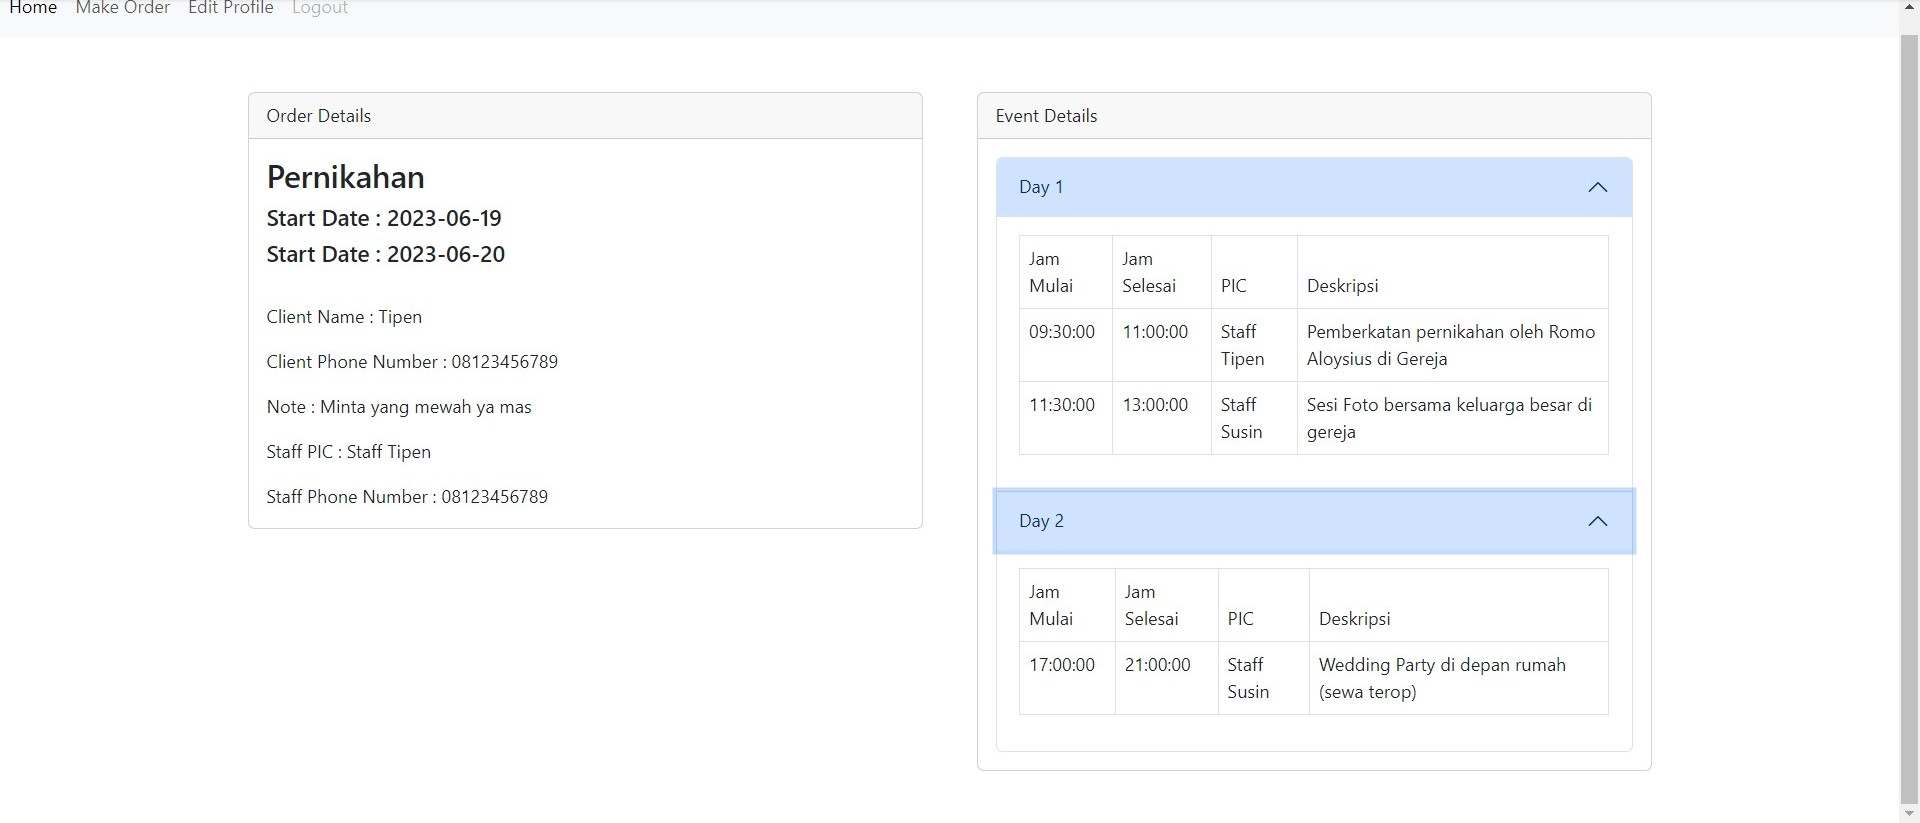
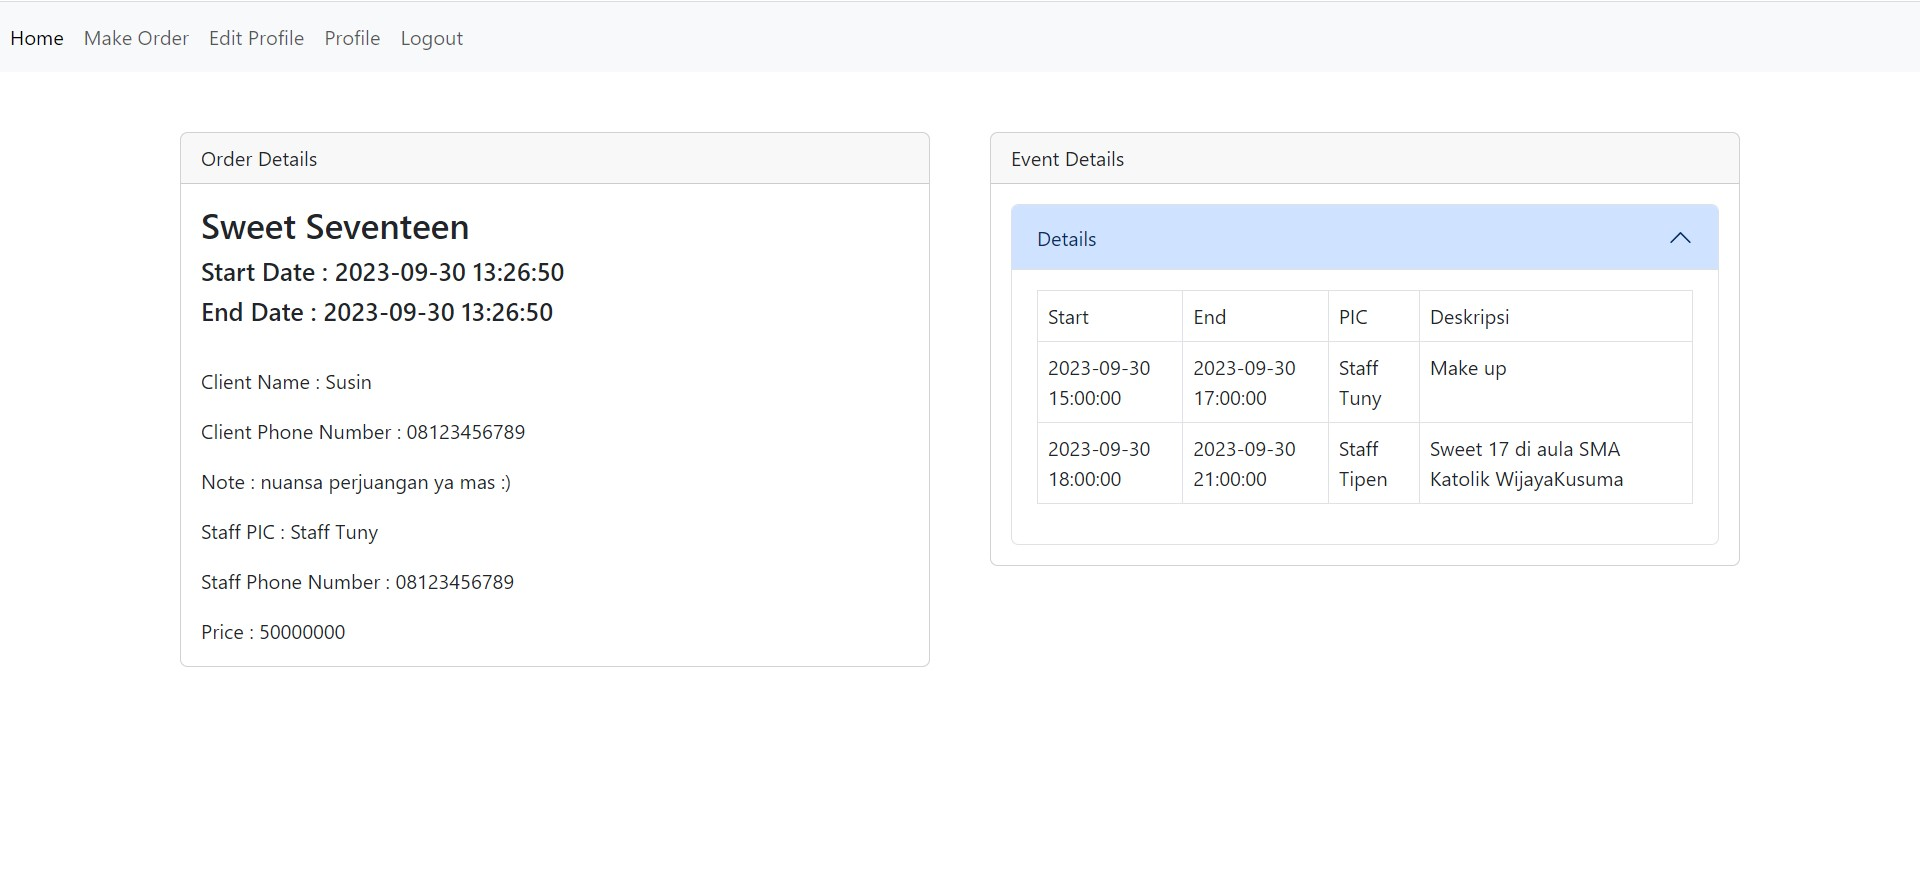
doneeee

diff --git a/ui_event_organizer/resources/views/staff/details.blade.php b/ui_event_organizer/resources/views/staff/details.blade.php
@@ -8,15 +8,17 @@
                 <div class="card-header">Order Details</div>
                 <div class="card-body">
                     <div class="list-group">
-                        <h3 class="card-title">Lamaran</h3>
-                        <h5 class="card-text">Start Date : 2023-10-10</h5>
-                        <h5 class="card-text">Start Date : 2023-10-10</h5>
+                        <h3 class="card-title"><span id="package_name">package name</span></h3>
+                        <h5 class="card-text">Start Date : <span id="start_date">start date</span> </h5>
+                        <h5 class="card-text">End Date : <span id="end_date">end date</span></h5>
                         <br>
-                        <p class="card-text">Client Name : Tuny</p>
-                        <p class="card-text">Client Phone Number : 08123456789</p>
-                        <p class="card-text">Note : Mau lamaran yang Chinese banget, keluarga saya totok soalnya (✿◡‿◡)</p>
-                        <p class="card-text">Staff PIC : <button type="button" class="btn btn-success">Take Request</button></p>
-                        <p class="card-text">Staff Phone Number : -</p>
+                        <p class="card-text">Client Name : <span id="client_name">Client Name</span></p>
+                        <p class="card-text">Client Phone Number : <span id="client_phone_num">client phone num</span></p>
+                        <p class="card-text">Note : <span id="note">Notes</span></p>
+                        <p class="card-text">Staff PIC : <span id="staff_name">Nama stafff</span></p>
+                        <p class="card-text">Staff Phone Number : <span id="staff_phone_num">Staff phone num</span></p>
+                        <p class="card-text">Price : <span id="package_price">Price</span></p>
+                        <button type="button" class="btn btn-success" id = "btnTake" >Take Request</button>
                     </div>
                 </div>
             </div>
@@ -38,10 +40,10 @@
                                 <table class="table table-bordered mt-3">
                                     <thead>
                                         <tr>
-                                            <td>Tanggal</td>
+                                            <!-- <td>Tanggal</td> -->
                                             <!-- <td>Tanggal Selesai<td> -->
-                                            <td>Jam Mulai</td>
-                                            <td>Jam Selesai</td>
+                                            <td>Start</td>
+                                            <td>End</td>
                                             <td>PIC</td>
                                             <td>Deskripsi</td>
                                         </tr>
@@ -80,9 +82,9 @@
             <label for="pic" class="form-label">Staff PIC</label>
             <select id = "pic" class="form-select" aria-label="Default select example" required>
                 <option selected disabled>Pilih PIC</option>
-                <option value="1">Tipen</option>
+                <!-- <option value="1">Tipen</option>
                 <option value="2">Susin</option>
-                <option value="3">Tuny</option>
+                <option value="3">Tuny</option> -->
             </select>
         </div>
         <div class="mb-3">
@@ -92,7 +94,7 @@
     </div>
     <div class="modal-footer">
         <button type="button" class="btn btn-secondary" data-bs-dismiss="modal">Close</button>
-        <button type="button" class="btn btn-primary">Save changes</button>
+        <button type="button" class="btn btn-primary" id="save">Save changes</button>
     </div>
     </div>
 </div>
@@ -104,4 +106,144 @@
         width: 600px;
     }
 </style>
+<script>
+    $(document).ready(function(){
+        var url = $(location).attr('href'),
+        parts = url.split("/"),
+        order_id = parts[parts.length-1];
+        datas = {
+            url : ":5501/staff"
+        }
+        $.ajax({
+            method : "GET",
+            data : datas,
+            url : "http://127.0.0.1:8000/api/",
+            success : function(response) {
+                len = response['data'].length
+                console.log(len);
+                for ($i = 0; $i<len;$i++) {
+                    $("#pic").append("<option value='"+response['data'][$i]['staff_id']+"'>"+response['data'][$i]['name']+"</option>")
+                }
+                console.log(response)
+            },
+            error : function(response) {
+                console.log(response)
+            }
+        })
+        $("#save").click(function(){
+            start = $("#start").val()
+            end = $("#end").val()
+            pic = $("#pic").val()
+            desc = $("#description").val()
+            datas = {
+                start : start,
+                end : end,
+                description : desc,
+                order_id : order_id,
+                staff_id : pic,
+                url : ":5504/event"
+            }
+            if(start != "" && end != "" && pic != "" && desc != "") {
+                $.ajax({
+                    method : "POST",
+                    data : datas,
+                    url : "http://127.0.0.1:8000/api/",
+                    success : function(response) {
+                        alert(response['message']);
+                        window.location.href = "";
+                    },
+                    error : function(response) {
+                        console.log(response)
+                    }
+                })
+            } else {
+                alert("tolong semua file untuk diisi")
+            }
+        })
+        var temp = window.location.pathname.split("/");
+        var order_id = temp[temp.length - 1];
+        $("#btnTake").click(function(){
+            datas = {
+                staff_id : {{session()->get('staff_id')}},
+                url: ':5503/order/'+order_id
+            }
+            $.ajax({
+                method : "PUT",
+                data : datas,
+                url : "http://127.0.0.1:8000/api/",
+                success : function(response) {
+                    alert(response['message']);
+                    window.location.href = "";
+                },
+                error : function(response) {
+                    console.log(response)
+                }
+            })
+        })
+        $.ajax({
+            method : "GET",
+            data : {
+                url : ":5503/order/"+order_id
+            },
+            url : "http://127.0.0.1:8000/api/",
+            success : function(response) {
+                order = response['data'][0]
+
+                data = [
+                    "package_name",
+                    "start_date",
+                    "end_date",
+                    "client_name",
+                    "client_phone_num",
+                    "note",
+                    "staff_name",
+                    "staff_phone_num",
+                    "package_price",
+                ]
+
+                console.log(order);
+                for (i in data) {
+                    console.log(data[i]);
+                    console.log(order[data[i]]);
+                    $("#"+data[i]).text(order[data[i]]);
+                }
+                console.log(response['data']);
+            },
+            error : function(response) {
+                console.log(response)
+            }
+        })
+
+        $.ajax({
+            method : "GET",
+            data : {
+                url : ":5504/event/"+order_id
+            },
+            url : "http://127.0.0.1:8000/api/",
+            success : function(response) {
+                events = response['data']
+
+                console.log(events);
+                for (i in events) {
+                    event = events[i];
+
+                    $("#table_body").append(
+                        `
+                        <tr>
+                            <td>`+ event['start'] +`</td>
+                            <td>`+ event['end'] +`</td>
+                            <td>`+ event['name'] +`</td>
+                            <td>`+ event['description'] +`</td>
+                        </tr>
+                        `
+                    );
+                }
+                console.log(response['data']);
+            },
+            error : function(response) {
+                console.log(response)
+            }
+        })
+    })
+</script>
 @endsection

diff --git a/ui_event_organizer/resources/views/details.blade.php b/ui_event_organizer/resources/views/details.blade.php
@@ -10,13 +10,14 @@
                     <div class="list-group">
                         <h3 class="card-title"><span id="package_name">package name</span></h3>
                         <h5 class="card-text">Start Date : <span id="start_date">start date</span> </h5>
-                        <h5 class="card-text">Start Date : <span id="end_date">end date</span></h5>
+                        <h5 class="card-text">End Date : <span id="end_date">end date</span></h5>
                         <br>
                         <p class="card-text">Client Name : <span id="client_name">Client Name</span></p>
                         <p class="card-text">Client Phone Number : <span id="client_phone_num">client phone num</span></p>
                         <p class="card-text">Note : <span id="note">Notes</span></p>
                         <p class="card-text">Staff PIC : <span id="staff_name">Nama stafff</span></p>
                         <p class="card-text">Staff Phone Number : <span id="staff_phone_num">Staff phone num</span></p>
+                        <p class="card-text">Price : <span id="package_price">Price</span></p>
                     </div>
                 </div>
             </div>
@@ -37,10 +38,10 @@
                                 <table class="table table-bordered">
                                     <thead>
                                         <tr>
-                                            <td>Tanggal Mulai</td>
-                                            <td>Tanggal Selesai<td>
-                                            <td>Jam Mulai</td>
-                                            <td>Jam Selesai</td>
+                                            <!-- <td>Tanggal Mulai</td>
+                                            <td>Tanggal Selesai<td> -->
+                                            <td>Start</td>
+                                            <td>End</td>
                                             <td>PIC</td>
                                             <td>Deskripsi</td>
                                         </tr>
@@ -88,6 +89,7 @@
                     "note",
                     "staff_name",
                     "staff_phone_num",
+                    "package_price",
                 ]
 
                 console.log(order);
@@ -95,6 +97,37 @@
                     console.log(data[i]);
                     console.log(order[data[i]]);
                     $("#"+data[i]).text(order[data[i]]);
+                }
+                console.log(response['data']);
+            },
+            error : function(response) {
+                console.log(response)
+            }
+        })
+
+        $.ajax({
+            method : "GET",
+            data : {
+                url : ":5504/event/"+order_id
+            },
+            url : "http://127.0.0.1:8000/api/",
+            success : function(response) {
+                events = response['data']
+
+                console.log(events);
+                for (i in events) {
+                    event = events[i];
+
+                    $("#table_body").append(
+                        `
+                        <tr>
+                            <td>`+ event['start'] +`</td>
+                            <td>`+ event['end'] +`</td>
+                            <td>`+ event['name'] +`</td>
+                            <td>`+ event['description'] +`</td>
+                        </tr>
+                        `
+                    );
                 }
                 console.log(response['data']);
             },
